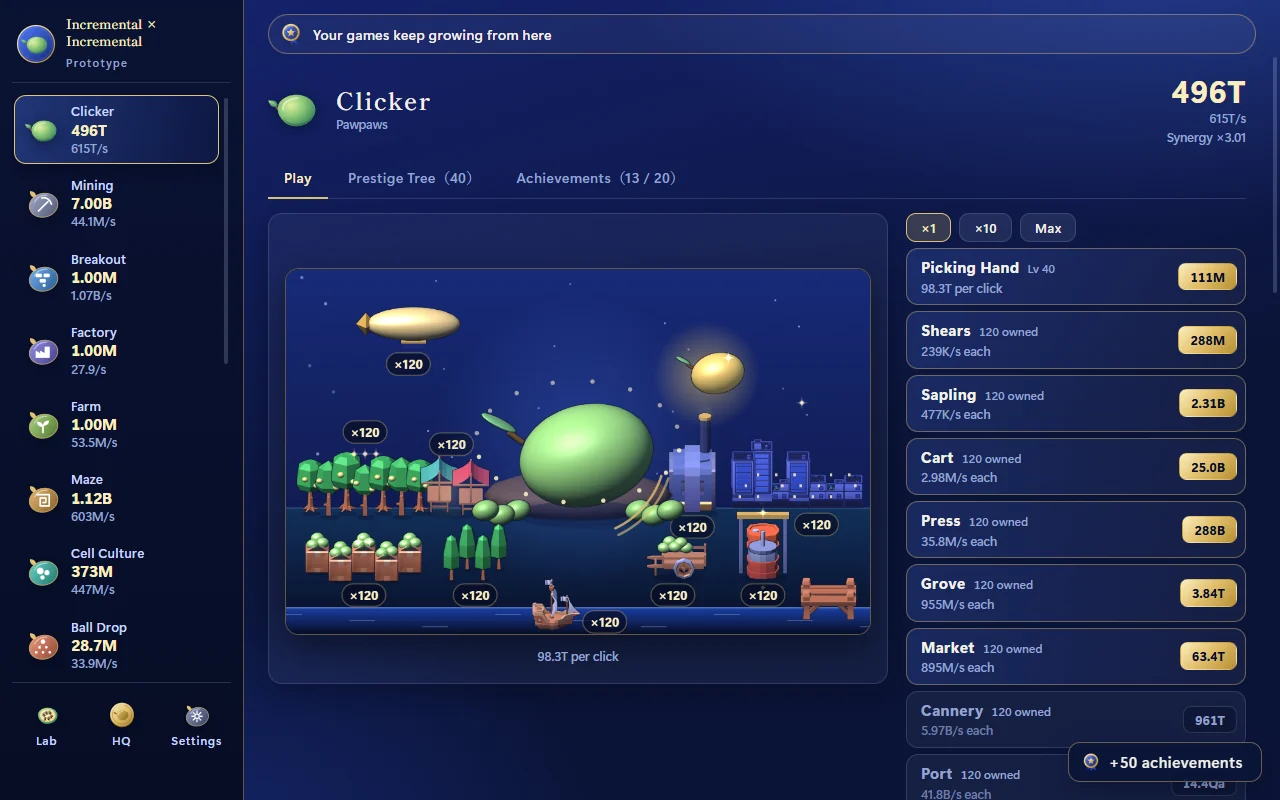
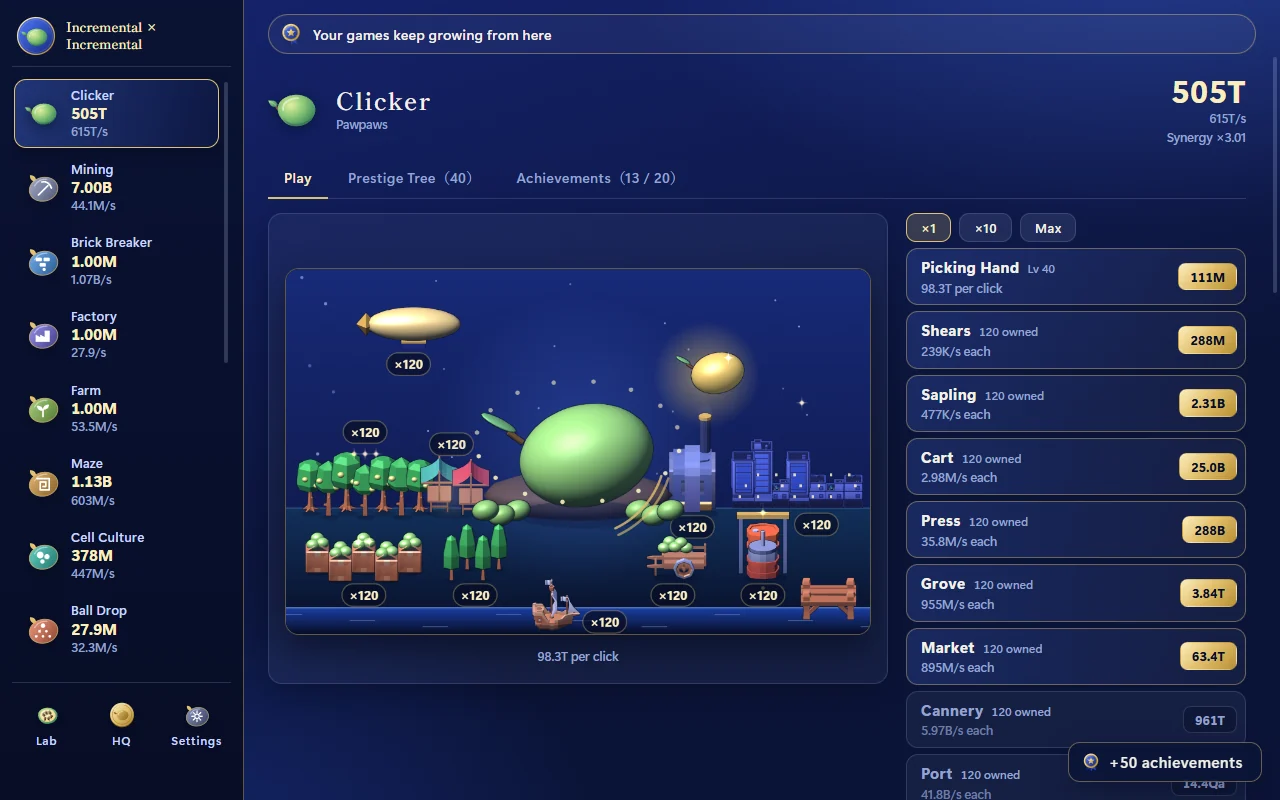
EXP-005: take in the renamed English game title, refresh screenshots, add asset source links

Changed region(s): [[0.0, 0.0, 0.1875, 0.8438], [0.9062, 0.0938, 0.9688, 0.125]]

diff --git a/experiments/exp-005/index.html b/experiments/exp-005/index.html
@@ -15,19 +15,19 @@
   <meta property="og:site_name" content="FlowDeskStudio">
   <meta property="og:url" content="https://flowdeskstudio.net/experiments/exp-005/">
   <meta property="og:locale" content="ja_JP">
-  <meta property="og:title" content="AIで個人ゲーム開発をして困った10のことと解決法｜3日で放置ゲームを作った記録">
+  <meta property="og:title" content="AI個人ゲーム開発で困った10のことと解決法｜3日で放置ゲームを作った記録">
   <meta property="og:description" content="Claude Codeと3日で16本入りの放置ゲームを作って分かった、AI個人ゲーム開発のつまずきどころと直し方。ブラウザで遊べます。">
   <meta property="og:image" content="https://flowdeskstudio.net/experiments/exp-005/assets/og-ja.png">
   <meta property="og:image:width" content="1200">
   <meta property="og:image:height" content="630">
   <meta property="article:published_time" content="2026-10-12T00:00:00+09:00">
   <meta name="twitter:card" content="summary_large_image">
-  <meta name="twitter:title" content="AIで個人ゲーム開発をして困った10のことと解決法">
+  <meta name="twitter:title" content="AI個人ゲーム開発で困った10のことと解決法">
   <meta name="twitter:description" content="Claude Codeと3日で16本入りの放置ゲームを作って分かった、つまずきどころと直し方。">
   <meta name="twitter:image" content="https://flowdeskstudio.net/experiments/exp-005/assets/og-ja.png">
   <link rel="stylesheet" href="/assets/site.css">
   <link rel="stylesheet" href="/experiments/exp-005/exp-005.css">
-  <script type="application/ld+json">{"@context":"https://schema.org","@graph":[{"@type":"BlogPosting","headline":"AIで個人ゲーム開発をして困った10のことと解決法｜3日で放置ゲームを作った記録","description":"Claude Codeと3日間で、16本入りの放置ゲームを作りました。AIを使った個人ゲーム開発で実際に困った10のことと、その解決法をまとめます。","inLanguage":"ja","datePublished":"2026-10-12","dateModified":"2026-10-12","image":"https://flowdeskstudio.net/experiments/exp-005/assets/og-ja.png","mainEntityOfPage":"https://flowdeskstudio.net/experiments/exp-005/","author":{"@type":"Organization","name":"FlowDeskStudio","url":"https://flowdeskstudio.net/"},"publisher":{"@type":"Organization","name":"FlowDeskStudio","url":"https://flowdeskstudio.net/"}},{"@type":"BreadcrumbList","itemListElement":[{"@type":"ListItem","position":1,"name":"FlowDeskStudio","item":"https://flowdeskstudio.net/"},{"@type":"ListItem","position":2,"name":"Experiments","item":"https://flowdeskstudio.net/experiments/"},{"@type":"ListItem","position":3,"name":"AIで個人ゲーム開発をして困った10のことと解決法","item":"https://flowdeskstudio.net/experiments/exp-005/"}]},{"@type":"FAQPage","mainEntity":[{"@type":"Question","name":"AIだけでゲームは作れますか？","acceptedAnswer":{"@type":"Answer","text":"プログラム、文言、絵の描き出しまで、実装はAI(Claude Code)が行いました。ただし、何を作るか、どこが足りないか、どこで区切るかは人が決めています。今回の開発で方針が変わったきっかけは、どれも人が実際に画面を見て出した感想でした。"}},{"@type":"Question","name":"AIを使った個人ゲーム開発には、どのくらいの期間がかかりますか？","acceptedAnswer":{"@type":"Answer","text":"今回は3日間で、16本のゲームが入った放置ゲームをブラウザで遊べる形にしました。ただし、はじめからエンディングまでを人が通しで遊んでの調整は終わっていません。動くものができるまでと、仕上がるまでは別の長さです。"}},{"@type":"Question","name":"絵や音の素材はどうやって用意しましたか？","acceptedAnswer":{"@type":"Answer","text":"絵は、CC0で配布されている3Dモデル(Kenneyと3DAssets.dev)を、自作の小さな描き出しの道具で同じ光と色にそろえて2Dの絵にしました。効果音はKenneyのCC0素材、書体はSIL OFLのものです。素材ごとに出どころとライセンスを一覧にしています。"}},{"@type":"Question","name":"AIで作られた素材を使ったゲームは公開や販売ができますか？","acceptedAnswer":{"@type":"Answer","text":"素材のライセンスが許していれば使えます。今回使った3Dモデルのうち12点は、配布元でAIで作ったと申告されているCC0の素材でした。Steamでは、ゲームに含まれるAI生成コンテンツをコンテンツ調査で申告する決まりがあるため、どの素材がAI製かを記録しておく必要があります。"}},{"@type":"Question","name":"放置ゲーム(インクリメンタルゲーム)の数値バランスはどう決めればよいですか？","acceptedAnswer":{"@type":"Answer","text":"今回は、倍々で増える式とべき乗で増える式が混ざっていたために、ある所で暴走するか止まるかのどちらかになりました。式をべき乗にそろえ、100時間ぶんを自動で遊ばせる試走を4分弱で回せるようにして確かめました。"}}]}]}</script>
+  <script type="application/ld+json">{"@context":"https://schema.org","@graph":[{"@type":"BlogPosting","headline":"AI個人ゲーム開発で困った10のことと解決法｜3日で放置ゲームを作った記録","description":"Claude Codeと3日間で、16本入りの放置ゲームを作りました。AIを使った個人ゲーム開発で実際に困った10のことと、その解決法をまとめます。","inLanguage":"ja","datePublished":"2026-10-12","dateModified":"2026-10-12","image":"https://flowdeskstudio.net/experiments/exp-005/assets/og-ja.png","mainEntityOfPage":"https://flowdeskstudio.net/experiments/exp-005/","author":{"@type":"Organization","name":"FlowDeskStudio","url":"https://flowdeskstudio.net/"},"publisher":{"@type":"Organization","name":"FlowDeskStudio","url":"https://flowdeskstudio.net/"}},{"@type":"BreadcrumbList","itemListElement":[{"@type":"ListItem","position":1,"name":"FlowDeskStudio","item":"https://flowdeskstudio.net/"},{"@type":"ListItem","position":2,"name":"Experiments","item":"https://flowdeskstudio.net/experiments/"},{"@type":"ListItem","position":3,"name":"AI個人ゲーム開発で困った10のことと解決法","item":"https://flowdeskstudio.net/experiments/exp-005/"}]},{"@type":"FAQPage","mainEntity":[{"@type":"Question","name":"AIだけでゲームは作れますか？","acceptedAnswer":{"@type":"Answer","text":"プログラム、文言、絵の描き出しまで、実装はAI(Claude Code)が行いました。ただし、何を作るか、どこが足りないか、どこで区切るかは人が決めています。今回の開発で方針が変わったきっかけは、どれも人が実際に画面を見て出した感想でした。"}},{"@type":"Question","name":"AIを使った個人ゲーム開発には、どのくらいの期間がかかりますか？","acceptedAnswer":{"@type":"Answer","text":"今回は3日間で、16本のゲームが入った放置ゲームをブラウザで遊べる形にしました。ただし、はじめからエンディングまでを人が通しで遊んでの調整は終わっていません。動くものができるまでと、仕上がるまでは別の長さです。"}},{"@type":"Question","name":"絵や音の素材はどうやって用意しましたか？","acceptedAnswer":{"@type":"Answer","text":"絵は、CC0で配布されている3Dモデル(Kenneyと3DAssets.dev)を、自作の小さな描き出しの道具で同じ光と色にそろえて2Dの絵にしました。効果音はKenneyのCC0素材、書体はSIL OFLのものです。素材ごとに出どころとライセンスを一覧にしています。"}},{"@type":"Question","name":"AIで作られた素材を使ったゲームは公開や販売ができますか？","acceptedAnswer":{"@type":"Answer","text":"素材のライセンスが許していれば使えます。今回使った3Dモデルのうち12点は、配布元でAIで作ったと申告されているCC0の素材でした。Steamでは、ゲームに含まれるAI生成コンテンツをコンテンツ調査で申告する決まりがあるため、どの素材がAI製かを記録しておく必要があります。"}},{"@type":"Question","name":"放置ゲーム(インクリメンタルゲーム)の数値バランスはどう決めればよいですか？","acceptedAnswer":{"@type":"Answer","text":"今回は、倍々で増える式とべき乗で増える式が混ざっていたために、ある所で暴走するか止まるかのどちらかになりました。式をべき乗にそろえ、100時間ぶんを自動で遊ばせる試走を4分弱で回せるようにして確かめました。"}}]}]}</script>
 </head>
 <body>
   <a class="skip-link" href="#article">本文へ移動</a>
@@ -254,6 +254,14 @@
             <p>足りない素材を配布サイトから探すと、ライセンスは素材ごとに違う。さらに今回、使った3Dモデルのうち12点は、配布元で「AIで作った」と申告されているものだった。あとから「この素材は使ってよかったのか」「どれがAI製か」を調べ直すのは難しい。</p>
             <h4>どう直したか</h4>
             <p>素材を取るたびに、1点ずつライセンスを確かめ、出どころ、ライセンス、AI製かどうかを一覧に書いた。ライセンスの分からない素材は入れない。今回使ったのは、絵のもとになった3DモデルがCC0(Kenneyと3DAssets.dev)、効果音がCC0(Kenney)、書体がSIL OFLだ。一覧はゲームと一緒に配っている。</p>
+            <h4>使った素材の配布サイト</h4>
+            <ul class="article-list">
+              <li><a href="https://kenney.nl/assets" rel="noopener">Kenney</a>:3Dモデルと効果音。CC0</li>
+              <li><a href="https://3dassets.dev/assets" rel="noopener">3DAssets.dev</a>:3Dモデル。使ったものはCC0で、12点とも配布元でAI製と申告されている</li>
+              <li><a href="https://fonts.google.com/specimen/Shippori+Mincho" rel="noopener">Shippori Mincho</a> と <a href="https://fonts.google.com/specimen/Zen+Maru+Gothic" rel="noopener">Zen Maru Gothic</a>:書体。SIL OFL 1.1</li>
+              <li>ライセンスの本文:<a href="https://creativecommons.org/publicdomain/zero/1.0/deed.ja" rel="noopener">CC0 1.0</a> / <a href="https://openfontlicense.org/" rel="noopener">SIL Open Font License</a></li>
+            </ul>
+            <p>配布サイトの条件は変わることがある。使う前に、素材1点ごとのページで確かめてほしい。</p>
             <h4>公式の説明</h4>
             <p>KenneyはWebサイトで、素材はCC0で、商用でも使え、表記は義務ではないと説明している<a href="#src-kenney">[7]</a>。</p>
             <p>Steamで公開する場合は、AIの扱いに決まりがある。Steamworksの公式ドキュメントによると、コンテンツ調査にAIについての項目があり、ゲームに含まれて遊ぶ人が目にするコンテンツ(絵、音、文章、翻訳など)が対象になる。開発中にAIの助けで作ったものを「事前生成」、ゲームの実行中にAIが作るものを「ライブ生成」と呼び、使っている場合はその内容を説明する必要がある<a href="#src-steam">[8]</a>。今回のゲームはまだSteamに出していないが、出すときに申告できるよう、AI製の素材を一覧にしてある。</p>

diff --git a/en/experiments/exp-005/index.html b/en/experiments/exp-005/index.html
@@ -254,6 +254,14 @@
             <p>When you look for missing assets on distribution sites, the license differs per asset. In this project, 12 of the 3D models used are declared by their source as made with AI. Working out afterwards whether an asset was allowed, or which ones are AI-made, is hard.</p>
             <h4>THE FIX</h4>
             <p>Each time an asset was taken, its license was checked individually and its source, license and AI status were written into a list. Assets with an unclear license were not used. The 3D models behind the art are CC0 (Kenney and 3DAssets.dev), the sound effects are CC0 (Kenney) and the fonts are under the SIL OFL. The list ships with the game.</p>
+            <h4>WHERE THE ASSETS CAME FROM</h4>
+            <ul class="article-list">
+              <li><a href="https://kenney.nl/assets" rel="noopener">Kenney</a>: 3D models and sound effects. CC0</li>
+              <li><a href="https://3dassets.dev/assets" rel="noopener">3DAssets.dev</a>: 3D models. The ones used are CC0, and all 12 are declared by the source as AI-made</li>
+              <li><a href="https://fonts.google.com/specimen/Shippori+Mincho" rel="noopener">Shippori Mincho</a> and <a href="https://fonts.google.com/specimen/Zen+Maru+Gothic" rel="noopener">Zen Maru Gothic</a>: fonts. SIL OFL 1.1</li>
+              <li>License texts: <a href="https://creativecommons.org/publicdomain/zero/1.0/" rel="noopener">CC0 1.0</a> / <a href="https://openfontlicense.org/" rel="noopener">SIL Open Font License</a></li>
+            </ul>
+            <p>Terms on distribution sites can change. Check the page of each individual asset before using it.</p>
             <h4>OFFICIAL GUIDANCE</h4>
             <p>Kenney states on its site that its assets are CC0, can be used in commercial projects and do not require attribution<a href="#src-kenney">[7]</a>.</p>
             <p>Publishing on Steam comes with rules about AI. According to the Steamworks documentation, the Content Survey has a section on AI covering content that ships with the game and that players consume, such as artwork, sound, narrative and localization. Content created with the help of AI tools during development is called pre-generated, and content created while the game is running is called live-generated. If either is used, the developer has to describe it<a href="#src-steam">[8]</a>. This game is not on Steam yet, but the AI-made assets are listed so they can be disclosed when it is.</p>

diff --git a/games/incremental-x-incremental/js/lang/en.js b/games/incremental-x-incremental/js/lang/en.js
@@ -5,7 +5,7 @@ export default {
 
   'g.clicker': 'Clicker',
   'g.mining': 'Mining',
-  'g.breakout': 'Breakout',
+  'g.breakout': 'Brick Breaker',
   'g.smeltery': 'Smeltery',
   'res.clicker': 'Pawpaws',
   'res.mining': 'Ore',
@@ -171,7 +171,7 @@ export default {
   'blast.up.auto.n': 'Auto-Detonator',
   'blast.up.auto.d': 'Detonates at the level you set',
   'blast.up.giveback.n': 'Giveback',
-  'blast.up.giveback.d': 'Boosts Mining and Breakout as it grows',
+  'blast.up.giveback.d': 'Boosts Mining and Brick Breaker as it grows',
   'blast.pp.n': 'Detonators',
   'blast.pp.d': '+10% gravel per detonator',
   'blast.pp.hint': 'First at 100K',
@@ -1046,7 +1046,7 @@ export default {
   'tower.up.porter.n': 'Porter',
   'tower.up.porter.d': 'Turns back automatically at your floor',
   'tower.up.giveback.n': 'Give Back',
-  'tower.up.giveback.d': 'Boosts Breakout and Maze as this grows',
+  'tower.up.giveback.d': 'Boosts Brick Breaker and Maze as this grows',
   'tower.pp.n': 'Keys',
   'tower.pp.d': '+10% treasure per key',
   'tower.pp.hint': 'First at 100K',
